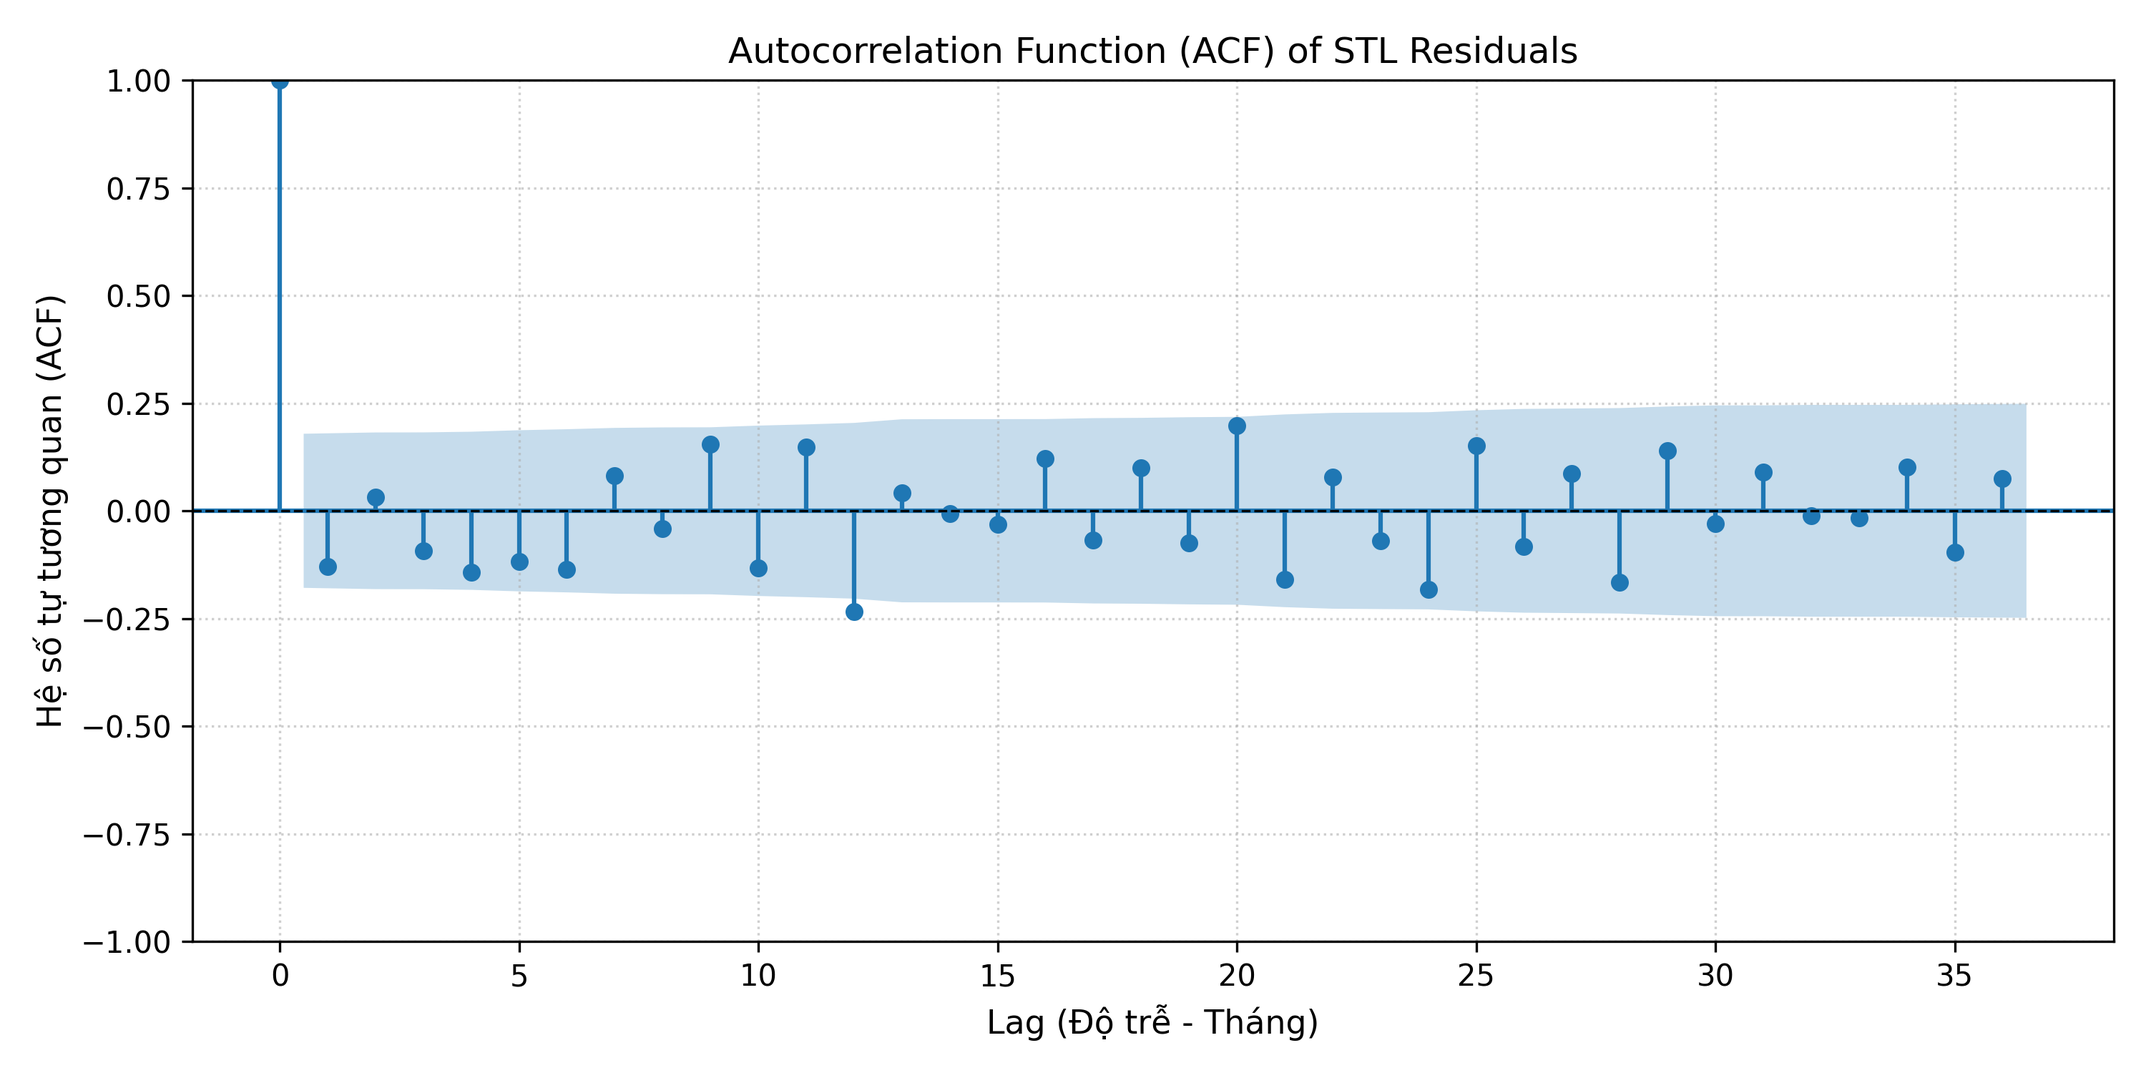
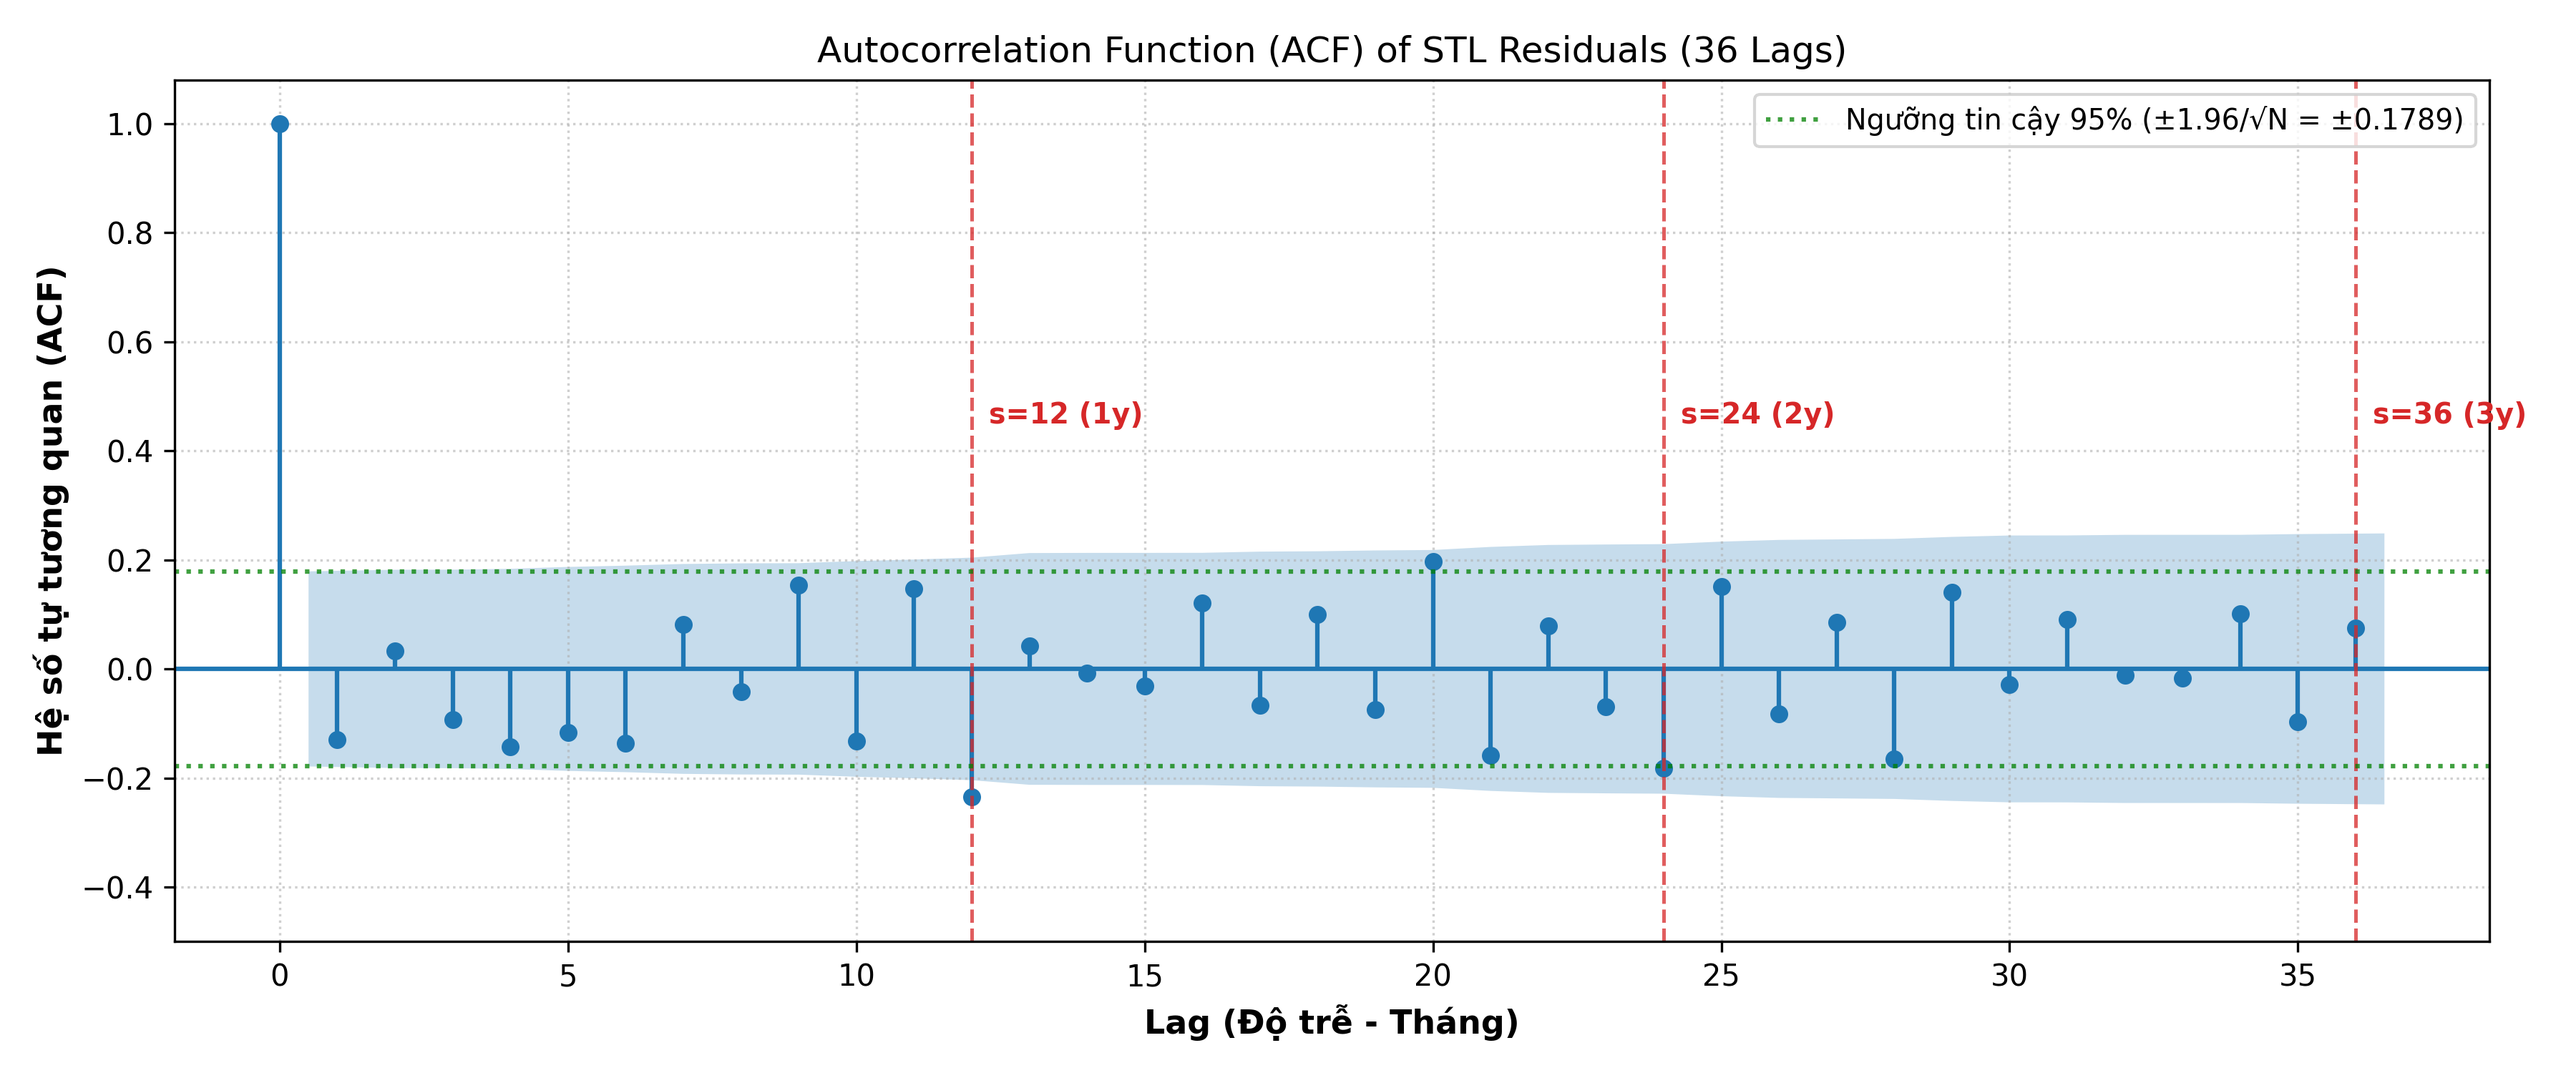
fix(eval): update white noise evaluation on STL residual ACF with over-smoothing analysis

diff --git a/docs/report.md b/docs/report.md
@@ -94,16 +94,16 @@ $$Y_t = Trend_t + Seasonal_t + Residual_t$$
    * Chi phối cực kỳ mạnh mẽ và ổn định đều đặn qua từng năm với biên độ $\pm 5^\circ\text{C}$ (chênh lệch đỉnh - đáy lên tới $10^\circ\text{C}$).
    * Chu kỳ mùa vụ giải thích phần lớn phương sai biến động của toàn bộ chuỗi.
 3. **Phần dư thừa ($Residual_t$):**
-   * Phân bố ngẫu nhiên xung quanh mức 0 trong phạm vi hẹp `[-1.5°C, +1.5°C]`.
-   * **Kiểm định tính chất White Noise bằng biểu đồ ACF:**
-     * Trích xuất chuỗi phần dư $R_t$ và vẽ hàm tự tương quan ACF đến 36 lags.
-     * Hầu hết các hệ số tự tương quan tại các độ trễ ($k \ge 1$) đều nằm gọn bên trong dải tin cậy 95% ($\pm 1.96/\sqrt{120} \approx \pm 0.1789$), đạt tỷ lệ 91.7% lag không có ý nghĩa thống kê.
-     * Không còn dấu hiệu của xu hướng hay chu kỳ mùa vụ còn sót lại, xác nhận thành phần dư thừa mang đầy đủ đặc tính của **White Noise thuần túy**.
+   * Phân bố ngẫu nhiên xung quanh mức 0 trong phạm vi hẹp `[-1.5°C, +1.5°C]` (kỳ vọng $E[R_t] = -0.0072 \approx 0$, độ lệch chuẩn $0.6858^\circ\text{C}$).
+   * **Kiểm định tính chất White Noise bằng biểu đồ ACF (36 lags):**
+     * Có **$3/36$ độ trễ ($8.33\%$)** vượt ra ngoài dải tin cậy 95% Bartlett ($\pm 1.96/\sqrt{120} \approx \pm 0.1789$). Do tỷ lệ vượt ngưỡng $> 5\%$ (ngưỡng tối đa cho phép của White Noise), phần dư **chưa đạt chuẩn Nhiễu trắng thuần túy (Pure White Noise) 100%**.
+     * **Vết tích mùa vụ âm (Seasonal Artifact):** Hai độ trễ vượt ngưỡng rơi trúng vào bội số chu kỳ mùa vụ 12 tháng: **Lag 12 ($\hat{\rho}_{12} = -0.2348$)** và **Lag 24 ($\hat{\rho}_{24} = -0.1822$)**, cùng một gai dương nhẹ ở **Lag 20 ($\hat{\rho}_{20} = +0.1976$)**. Dấu âm này phản ánh hiện tượng **Over-smoothing (làm mịn quá đà)** của thuật toán Loess khi bóc tách mùa vụ, khiến phần dư còn tồn đọng một lượng nhỏ tự tương quan âm tuần hoàn.
+     * **Kết luận:** Mô hình STL đã bóc tách được phần lớn xu hướng và mùa vụ (hệ số tự tương quan đã giảm sâu từ $0.77$ ở chuỗi gốc xuống quanh mức $0$). Tuy nhiên, phần dư chỉ mang tính chất **xấp xỉ gần với White Noise** chứ chưa hoàn toàn sạch sẽ tuyệt đối.
 
 <p align="center">
-  <img src="images/residual_acf.png" width="80%" alt="Biểu đồ ACF của Residual STL">
+  <img src="images/residual_acf.png" width="85%" alt="Biểu đồ ACF của Residual STL">
   <br>
-  <em>Hình 3b: Biểu đồ ACF của thành phần Residual cho thấy đặc trưng White Noise rõ nét.</em>
+  <em>Hình 3b: Lược đồ ACF của thành phần Phần dư (Residual) từ phân rã STL qua 36 độ trễ.</em>
 </p>
 
 ---

diff --git a/docs/03_statistical_analysis.md b/docs/03_statistical_analysis.md
@@ -61,12 +61,12 @@ Trong đó:
    * Biên độ dao động mạnh và cực kỳ ổn định từ $-5.0^\circ\text{C}$ đến $+5.0^\circ\text{C}$ (chênh lệch đỉnh - đáy lên tới $10^\circ\text{C}$).
    * Chu kỳ mùa vụ chiếm phần lớn năng lượng biến thiên của toàn bộ chuỗi.
 3. **Phần dư ($R_t$):**
-   * Dao động ngẫu nhiên xung quanh 0 trong phạm vi hẹp `[-1.5°C, +1.5°C]`.
-   * **Kiểm định White Noise qua biểu đồ ACF:**
-     * Biểu đồ ACF của thành phần dư thừa suy biến nhanh về 0 và dao động ngẫu nhiên quanh mức 0.
-     * Tỷ lệ các độ trễ nằm trong khoảng tin cậy 95% ($\pm 1.96/\sqrt{120} \approx \pm 0.1789$) đạt **91.7%** (33/36 lags).
-     * Khẳng định thuật toán Loess của STL đã bóc tách triệt để các tín hiệu mang tính quy luật (xu hướng, mùa vụ), chỉ để lại sai số ngẫu nhiên thuần túy (White Noise).
+   * Dao động ngẫu nhiên xung quanh 0 trong phạm vi hẹp `[-1.5°C, +1.5°C]` (kỳ vọng $E[R_t] = -0.0072 \approx 0$, độ lệch chuẩn $0.6858^\circ\text{C}$).
+   * **Kiểm định White Noise qua biểu đồ ACF (36 lags):**
+     * Có **$3/36$ độ trễ ($8.33\%$)** vượt ra ngoài dải tin cậy 95% Bartlett ($\pm 1.96/\sqrt{120} \approx \pm 0.1789$). Do tỷ lệ vi phạm $8.33\% > 5\%$, chuỗi phần dư **chưa đạt chuẩn Nhiễu trắng thuần túy (Pure White Noise) 100%**.
+     * Cụ thể, các gai âm tại chu kỳ $s=12$ ($\hat{\rho}_{12} = -0.2348$) và $2s=24$ ($\hat{\rho}_{24} = -0.1822$), cùng gai dương nhẹ tại lag 20 ($\hat{\rho}_{20} = +0.1976$), phản ánh hiện tượng **Over-smoothing** của Loess, để lại một lượng nhỏ tự tương quan âm tuần hoàn.
+     * **Kết luận:** Mặc dù mức độ tự tương quan đã giảm sút vượt bậc so với chuỗi gốc ($\rho_1 \approx 0.77 \rightarrow \rho_1 \approx -0.13$) và phần lớn các độ trễ ($91.7\%$) nằm trong dải tin cậy, phần dư chỉ đạt tính chất **xấp xỉ gần với White Noise** trong thực hành chứ chưa hoàn toàn sạch sẽ tuyệt đối.
 
 <p align="center">
-  <img src="images/residual_acf.png" width="80%" alt="Biểu đồ ACF của Residual STL">
+  <img src="images/residual_acf.png" width="85%" alt="Biểu đồ ACF của Residual STL">
 </p>
